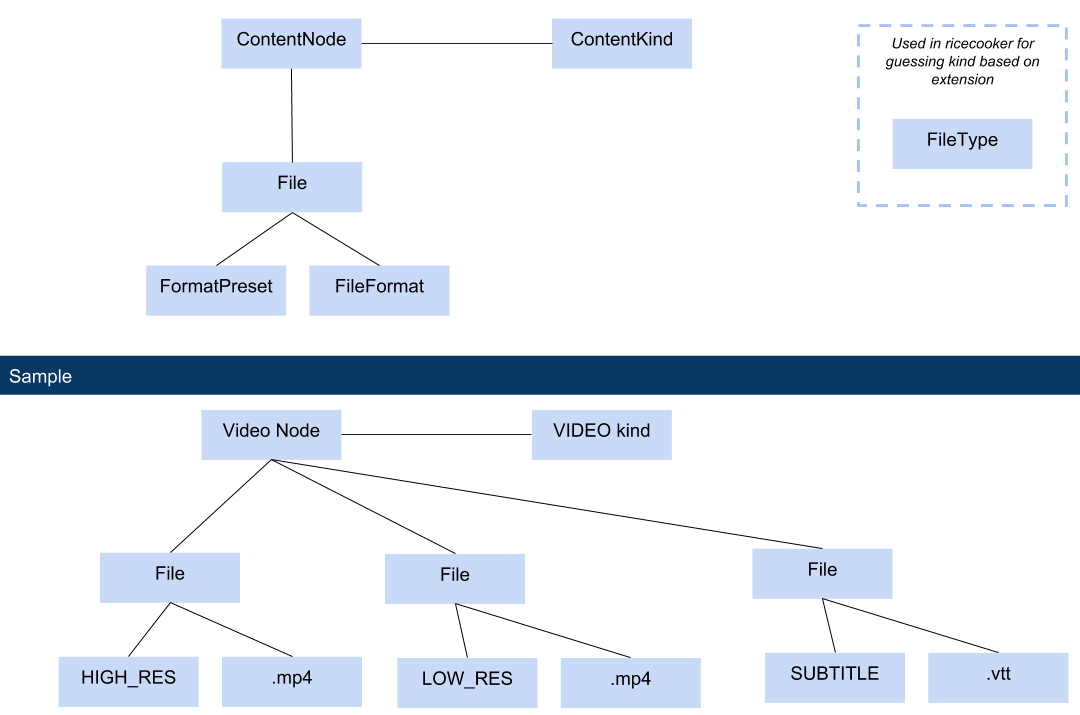
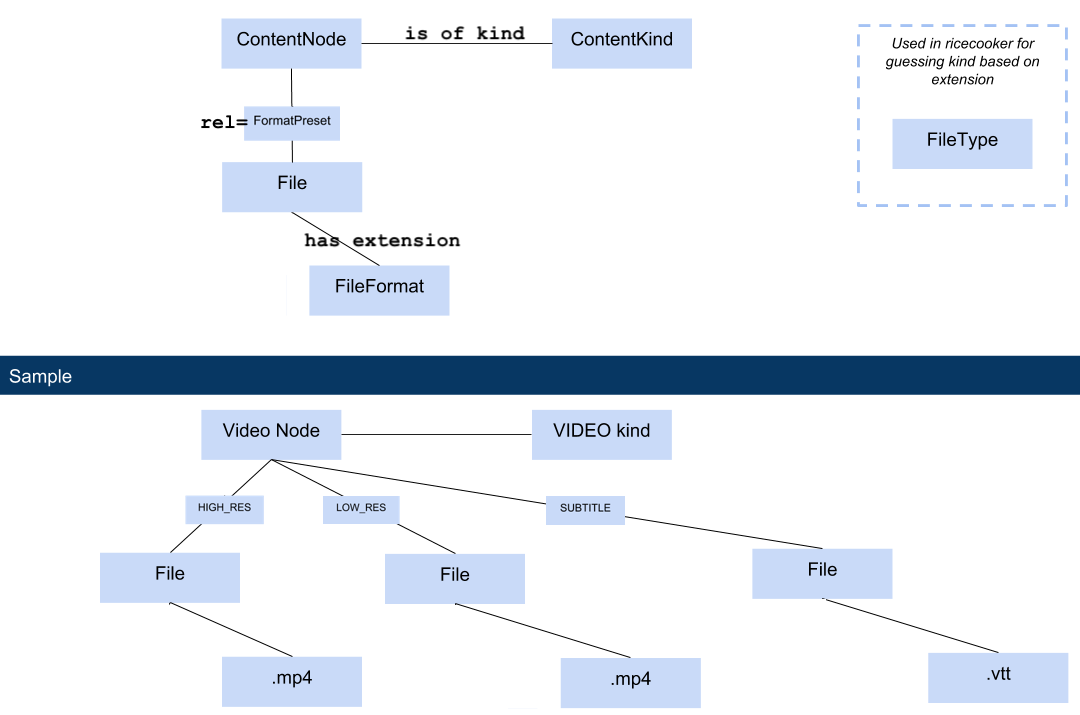
Updated format preset docs

diff --git a/README.md b/README.md
@@ -1,7 +1,18 @@
 LE Utils
 ========
-Utilities and constants shared across Ricecooker, Kolibri, and Kolibri Studio.
+The `le-utils` package contains shared constants used by Ricecooker, Kolibri, and
+Kolibri Studio. This package is not meant to be installed or used directly, but
+plays an important role in all Learning Equality products.
 
+
+Constants
+=========
+The Python files in the [le_utils/constants/](./le_utils/constants) are used to
+define constants (usually in `ALL_CAPS` form) to be used from Python code.
+The same constants and naming conventions are also provided in JSON format in the
+folder [le_utils/resources/](le_utils/resources) for use in frontend code.
+This means, adding a new constant may require editing multiple files: the Python
+constant-defining file, the JSON-file, and any associated tests.
 
 
 Languages
@@ -36,6 +47,7 @@ representation language code from the language object's `code` attribute:
 ```
 The Ricecooker API expects these internal representation language codes will be
 supplied for all `language` attributes (channel language, node language, and files language).
+
 
 
 ### More lookup helper methods
@@ -99,20 +111,30 @@ The currently supported content kinds are:
   - Audio content nodes backed by an audio files
   - Document content nodes backed by a document files (PDF or ePub)
   - HTML5 app content nodes backed by a HTML5 zip files
+  - Slideshow content nodes
   - Exercise content nodes
 
 The `kind` attribute identifies a subclass of the base content node class within
-within the data model, which differs on Ricecooker, Studio, and Kolibri:
+the data model, which differs on Ricecooker, Studio, and Kolibri:
   - [ricecooker.classes.nodes.ContentNode](https://github.com/learningequality/ricecooker/blob/master/ricecooker/classes/nodes.py#L428-L506):
-    in-memory content node used to store metadata needed to upload new content to Studio
+    in-memory content node used to store metadata needed to upload new content to Kolibri  Studio
   - [contentcuration.contentcuration.models.ContentNode](https://github.com/learningequality/studio/blob/develop/contentcuration/contentcuration/models.py#L775):
-    node within one of the trees associated with a Studio channel.
+    node within one of the trees associated with a Kolibri Studio channel.
   - [kolibri.core.content.models.ContentNode](https://github.com/learningequality/kolibri/blob/develop/kolibri/core/content/models.py#L175):
     node within tree for a particular version of a channel on Kolibri.
 
-For details description of the common and different model attributes, available
+For a detailed description of the common and different model attributes available
 on content nodes in each part of the platform see [this doc](https://docs.google.com/spreadsheets/d/181hSEwJ7yVmMh7LEwaHENqQetYSsbSDwybHTO_0zZM0/edit#gid=1640972430).
 
+
+
+File formats (extensions)
+-------------------------
+These are low-level constant that represents what type of file and are essentially
+synonymous with file extensions. The file format `MP4` is simply a convenient 
+proxy for the file extension `mp4`. 
+See [file_formats.py](https://github.com/learningequality/le-utils/blob/master/le_utils/constants/file_formats.py)
+and [resourcces/formatlookup.json](https://github.com/nucleogenesis/le-utils/blob/master/le_utils/resources/formatlookup.json).
 
 
 
@@ -122,35 +144,41 @@ Every `ContentNode` is associated with one or more `File` objects and nature of
 this association is represented though the `format_preset` attribute of the file.
 The `format_preset` is the role the file is playing in the content node,
 e.g., thumbnail, high resolution video, or low resolution video.
-You can think of the different presets on a content node as "slots" to be filled
-in with different files.
-
-Represented redundantly as python string [constants/format_presets.py](https://github.com/learningequality/le-utils/blob/master/le_utils/constants/format_presets.py)
+Note that format presets are represented redundantly as python string in 
+[constants/format_presets.py](https://github.com/learningequality/le-utils/blob/master/le_utils/constants/format_presets.py)
 and as json [resources/presetlookup.json](https://github.com/learningequality/le-utils/blob/master/le_utils/resources/presetlookup.json).
 
-
-
-File formats (extensions)
--------------------------
-This is the low-level constant that represents what type of file and is essentially
-synonymous with the file extension.
-See [file_formats.py](https://github.com/learningequality/le-utils/blob/master/le_utils/constants/file_formats.py) and [resourcces/formatlookup.json](https://github.com/nucleogenesis/le-utils/blob/master/le_utils/resources/formatlookup.json).
+You can think of the different format presets on a content node as different "slots"
+to be filled in by files, with certain slots being required while other optional.
+For examples, for a VideoNode (kind=`video`) to be a valid content node, it must
+have at least one video file associated with it filling either the `high_res_video`
+slot or the `low_res_video` slot. Certain slots can have multiple files in them,
+like the `video_subtitle` preset, since a VideoNode can have multiple subtitles
+associated with it for different languages.
 
 
 The figure below illustrates the structure between content nodes, files, and format presets.
 
-![Illustration of the relationships between content kinds, files, and format presets](docs/img/le-utils_constants_and_mapping.png)
+![Illustration of the relationships between content kinds (nodes), files, and format presets.](docs/img/le-utils_constants_and_mapping.png)
 
+In the Sample shown, the Video Node is of content kind `video` and has three
+files associated with it:
+  - The first file has file format `mp4` and format preset `high_res_video`
+  - The second file is also in `mp4` format but the relation to the content node
+    is that `low_res_video`
+  - A third file with format `vtt` is associated with the content node with a
+    format preset of `video_subtitle`.
 
+Format presets play a crucial role throughout the Kolibri content ecosystem and
+govern such things as content validation rules applied by Ricecooker, Kolibri Studio
+edit rules, and the rendering logic on Kolibri.
 
 
 File types (ricecooker.files.File subclasses)
 ---------------------------------------------
-Used on Ricecooker to provide a "constants" that represnts what type of file
-you are dealing with.
-
-
-
+Used on Ricecooker as identifiers to represents what type of file when serializing
+things to JSON as part of the content import process. Note that file types constants
+are internal to ricecooker operations and are not used in Kolibri Studio or Kolibri.
 
 
 
@@ -168,11 +196,10 @@ for generating proquint identifiers for content channels. These are short string
 that are easy to enter on devices without a full keyboard, e.g. `sutul-hakuh`.
 
 
-
 Roles
 -----
-  - `learner` (default)
-  - `coach` == only visible to teachers
-
-
+The `role` constants are used for Role-based access control (RBAC) within the
+Kolibri platform. Currently, only two levels of visibility are supported:
+  - `learner` (default): content nodes are visible to all Kolibri users
+  - `coach`: content nodes are only visible to Kolibri coaches and administrators
 
